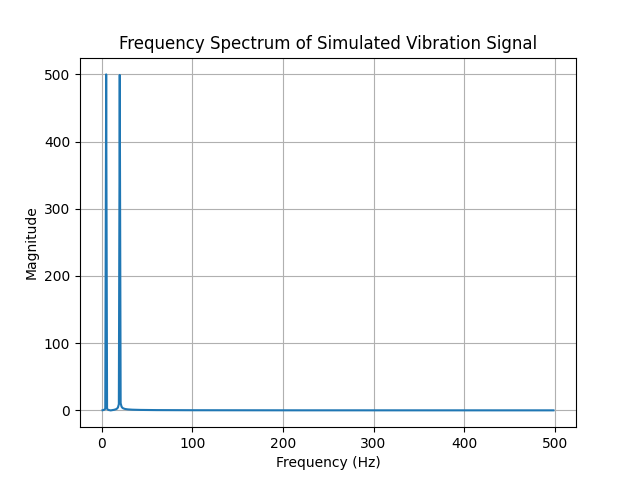
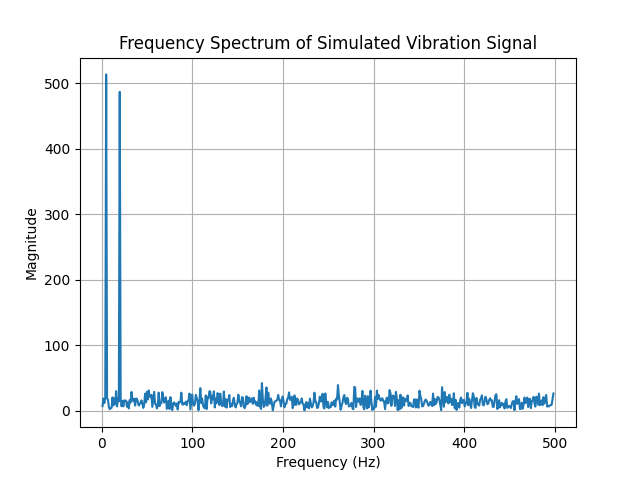
Day 4: added noise and analysed noisy vibration signal

diff --git a/vibration-analysis/fft_test.py b/vibration-analysis/fft_test.py
@@ -9,8 +9,21 @@ dt = t[1] - t[0]
 signal1 = np.sin(2 * np.pi * 5 * t)
 signal2 = np.sin(2 * np.pi * 20 * t)
 
-# Combine into one signal
-signal = signal1 + signal2
+# Combine signals
+clean_signal = signal1 + signal2
+
+# Add random noise
+noise = 0.5 * np.random.randn(len(t))
+signal = clean_signal + noise
+
+# Plot noisy signal
+plt.plot(t, signal)
+plt.title("Noisy Vibration Signal (Time Domain)")
+plt.xlabel("Time (s)")
+plt.ylabel("Amplitude")
+plt.grid()
+plt.savefig("vibration-analysis/noisy_signal.png")
+plt.clf()
 
 # Perform FFT
 fft_values = np.fft.fft(signal)
@@ -21,12 +34,12 @@ positive_mask = frequencies > 0
 frequencies = frequencies[positive_mask]
 fft_magnitude = np.abs(fft_values[positive_mask])
 
-# Find the two largest peaks
-peak_indices = np.argsort(fft_magnitude)[-2:]
-dominant_frequencies = frequencies[peak_indices]
+# Find peaks above threshold
+threshold = max(fft_magnitude) * 0.3
+peaks = frequencies[fft_magnitude > threshold]
 
-print("Dominant frequencies detected:")
-for freq in sorted(dominant_frequencies):
+print("Detected frequency components:")
+for freq in peaks[:5]:
     print(f"{freq:.2f} Hz")
 
 # Plot frequency spectrum

diff --git a/vibration-analysis/README.md b/vibration-analysis/README.md
@@ -14,6 +14,17 @@ Learn how to simulate vibration signals in Python before analysing real accelero
 - Detected dominant frequencies at 5 Hz and 20 Hz
 - Plotted the frequency spectrum
 
+## Day 4 Progress
+Added random noise to the simulated vibration signal to better represent real sensor data.
+
+Used FFT to analyse the noisy signal in the frequency domain.
+
+Successfully detected the main frequency components near 5 Hz and 20 Hz despite the added noise.
+
+Generated:
+- noisy_signal.png
+- frequency_spectrum.png
+
 ## Tools Used
 Python
 NumPy